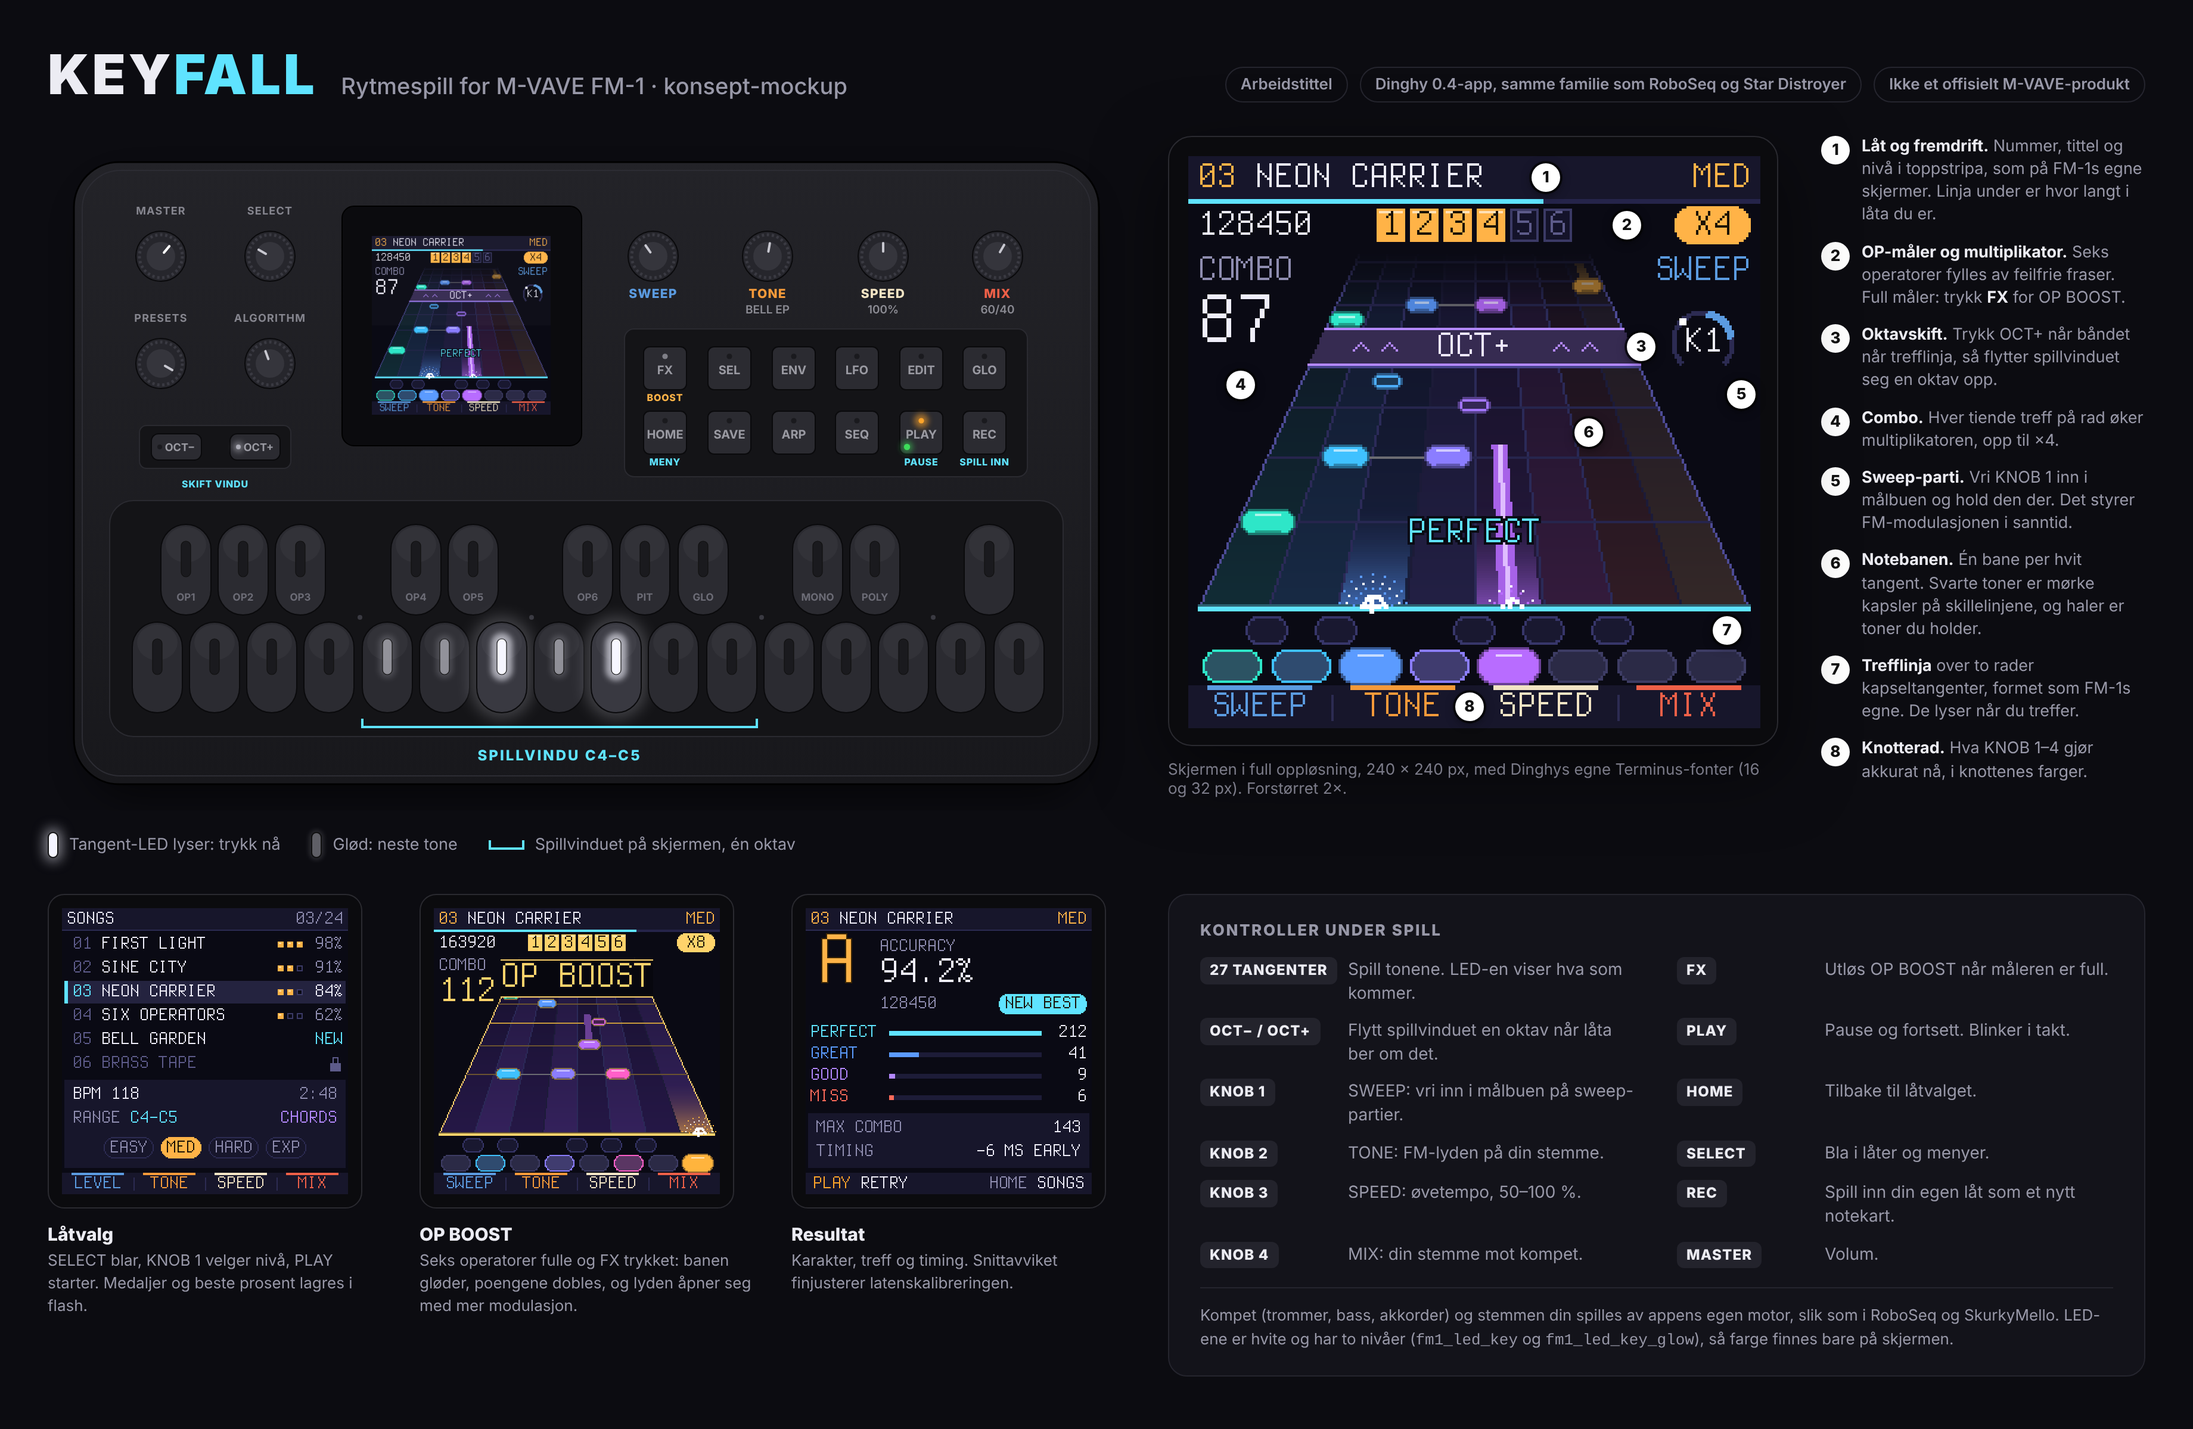
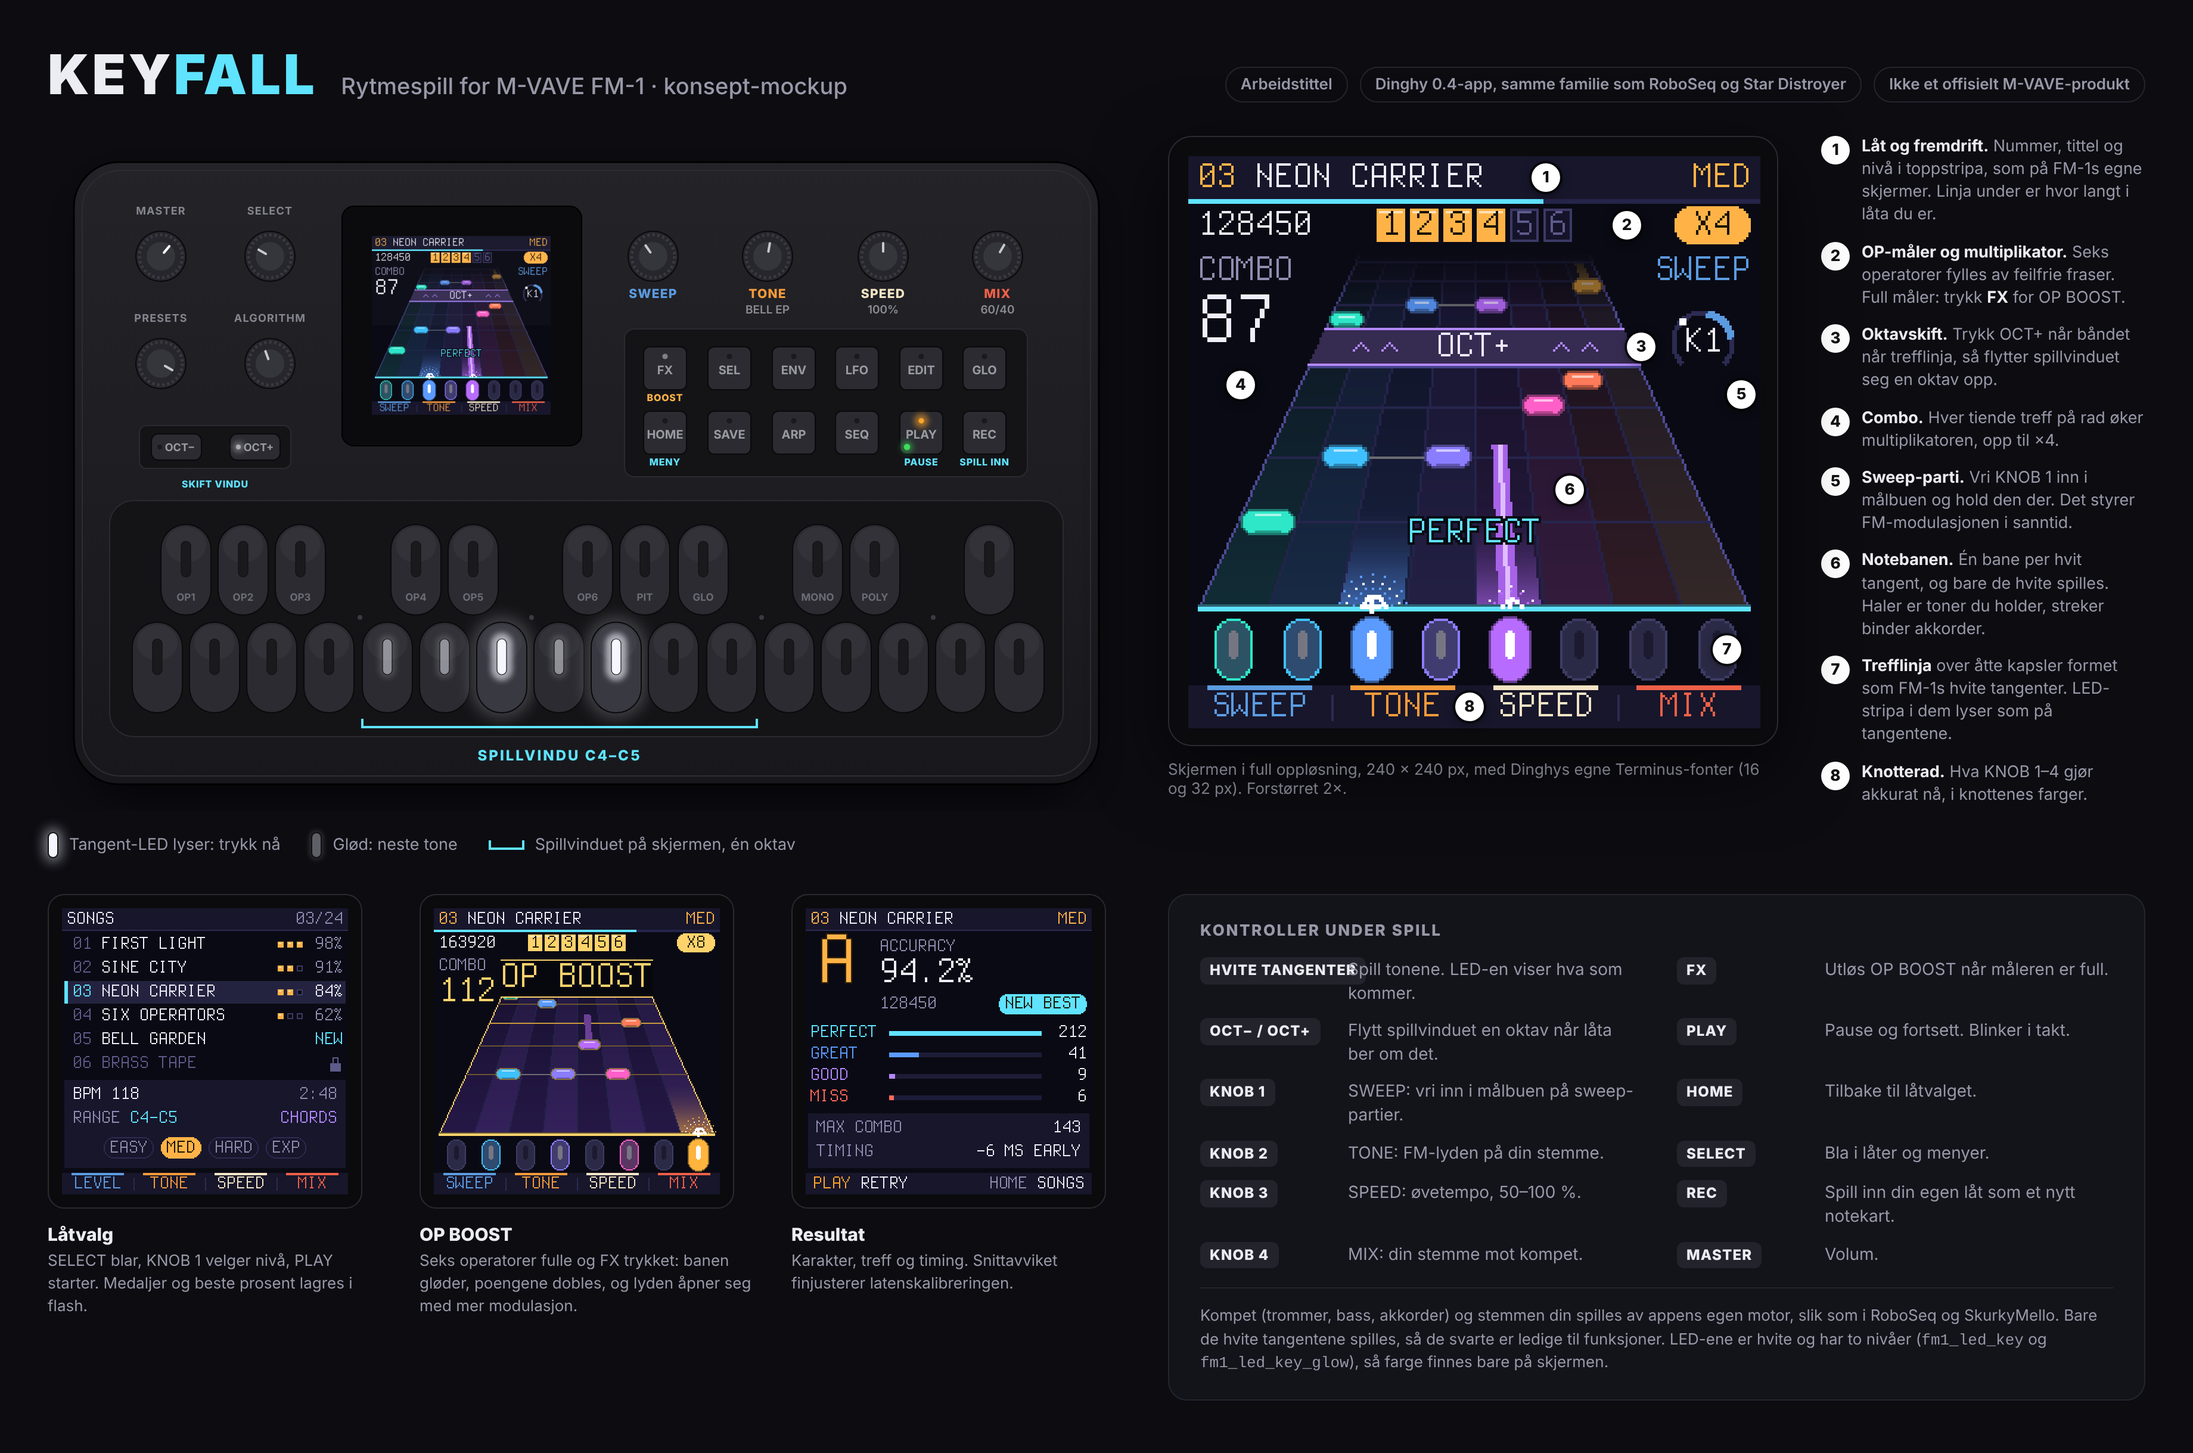
D1: play the white keys only
The highway already had a lane per white key; black notes on the lane
lines were the hardest part to read, and on the FM-1 the black keys are a
row of their own that the other apps use for functions. docs/DECISIONS.md
holds the decision and what it costs (out-of-scale notes, won back by a
transpose per song). The mockup drops the black notes and the black row:
the strip is eight standing capsules shaped like the FM-1's white keys,
with the LED slit lit and glowing as the key's LED does. pcap now rounds
standing capsules at top and bottom.

Claude-Session: https://claude.ai/code/session_01MBzS5f3wjTn3y6UgD7Y6Yo

diff --git a/mockup/keyfall-mockup.html b/mockup/keyfall-mockup.html
@@ -87,7 +87,7 @@
     <div class="controls">
       <h2>Kontroller under spill</h2>
       <div class="grid">
-        <div class="ctl"><span class="k">27 TANGENTER</span><span>Spill tonene. LED-en viser hva som kommer.</span></div>
+        <div class="ctl"><span class="k">HVITE TANGENTER</span><span>Spill tonene. LED-en viser hva som kommer.</span></div>
         <div class="ctl"><span class="k">FX</span><span>Utløs OP BOOST når måleren er full.</span></div>
         <div class="ctl"><span class="k">OCT− / OCT+</span><span>Flytt spillvinduet en oktav når låta ber om det.</span></div>
         <div class="ctl"><span class="k">PLAY</span><span>Pause og fortsett. Blinker i takt.</span></div>
@@ -100,7 +100,7 @@
         <div class="ctl"><span class="k">KNOB 4</span><span>MIX: din stemme mot kompet.</span></div>
         <div class="ctl"><span class="k">MASTER</span><span>Volum.</span></div>
       </div>
-      <div class="note">Kompet (trommer, bass, akkorder) og stemmen din spilles av appens egen motor, slik som i RoboSeq og SkurkyMello. LED-ene er hvite og har to nivåer (<code>fm1_led_key</code> og <code>fm1_led_key_glow</code>), så farge finnes bare på skjermen.</div>
+      <div class="note">Kompet (trommer, bass, akkorder) og stemmen din spilles av appens egen motor, slik som i RoboSeq og SkurkyMello. Bare de hvite tangentene spilles, så de svarte er ledige til funksjoner. LED-ene er hvite og har to nivåer (<code>fm1_led_key</code> og <code>fm1_led_key_glow</code>), så farge finnes bare på skjermen.</div>
     </div>
   </div>
 </div>
@@ -151,8 +151,8 @@ function pcap(ctx, x, y, w, h, c) {                       /* a capsule, row by r
   x = Math.round(x); y = Math.round(y); w = Math.max(1, Math.round(w)); h = Math.max(1, Math.round(h));
   const r = Math.min(h, w) / 2; ctx.fillStyle = c;
   for (let j = 0; j < h; j++) {
-    const dy = Math.abs(j + .5 - h / 2);
-    let ins = r < 2 ? 0 : Math.round(.92 * (dy >= r ? r : r - Math.sqrt(r * r - dy * dy)));
+    const yc = j + .5, dy = h <= w ? Math.abs(yc - h / 2) : yc < r ? r - yc : yc > h - r ? yc - (h - r) : 0;   /* standing capsules round at top and bottom */
+    const ins = r < 2 ? 0 : Math.round(.92 * (dy >= r ? r : r - Math.sqrt(r * r - dy * dy)));
     ctx.fillRect(x + ins, y + j, Math.max(1, w - 2 * ins), 1);
   }
 }
@@ -169,7 +169,6 @@ const HY = HIT - (HIT - TOPY) / (1 - RT);
 const sc = z => D / (D + z), Y = z => HY + (HIT - HY) * sc(z), sAt = y => (y - HY) / (HIT - HY);
 const X = (u, s) => CX + (u - CX) * s, U = p => NL + p * LW;
 const fadeAt = y => Math.max(0, Math.min(1, (y - TOPY) / 26));
-const BLACK_B = [1, 2, 4, 5, 6];
 
 function highway(ctx, o) {
   for (let y = TOPY; y < HIT; y++) {
@@ -183,7 +182,7 @@ function highway(ctx, o) {
     for (let b = 0; b <= 8; b++) {
       const edge = b === 0 || b === 8;
       let x = Math.round(X(U(b), s)); if (b === 8) x -= 1;
-      const c = edge ? (o.boost ? P.gold : '#4d4b96') : BLACK_B.includes(b) ? '#2b2a58' : '#1c1b38';
+      const c = edge ? (o.boost ? P.gold : '#4d4b96') : '#24234a';
       rect(ctx, x, y, 1, 1, mix(P.bg, c, f));
     }
   }
@@ -250,17 +249,16 @@ function burst(ctx, cx, cy, col, big) {
   if (big) { rect(ctx, cx - 3, cy - 1, 7, 2, '#ffffff'); rect(ctx, cx - 1, cy - 4, 2, 7, '#ffffff'); }
   else { rect(ctx, cx - 1, cy - 2, 2, 3, '#ffffff'); }
 }
-function keyStrip(ctx, o) {                                           /* the FM-1's two rows of capsule keys */
+function keyStrip(ctx, o) {                                           /* the FM-1's white keys: tall capsules with their LED slit */
   const st = o.keys || {};
-  const cap = (cx, y, w, h, col, state, black) => {
-    const x = cx - w / 2;
-    if (state === 'lit') { pcap(ctx, x - 1, y - 1, w + 2, h + 2, mix(P.bg, col, .55)); pcap(ctx, x, y, w, h, col);
-      rect(ctx, x + h / 2, y + 2, w - h, 1, mix(col, '#ffffff', .65)); }
-    else if (state === 'next') { pcap(ctx, x, y, w, h, col); pcap(ctx, x + 1, y + 1, w - 2, h - 2, mix(black ? '#1a1930' : '#2b2a46', col, .22)); }
-    else { pcap(ctx, x, y, w, h, black ? '#37366a' : '#3d3c64'); pcap(ctx, x + 1, y + 1, w - 2, h - 2, black ? '#191830' : '#2b2a46'); }
-  };
-  BLACK_B.forEach(b => cap(U(b), 193, 18, 12, laneCol(b), st['b' + b], true));
-  for (let i = 0; i < 8; i++) cap(U(i + .5), 207, 25, 14, LANE[i], st['w' + i], false);
+  for (let i = 0; i < 8; i++) {
+    const col = LANE[i], state = st['w' + i], w = 16, h = 26, x = Math.round(U(i + .5) - w / 2), y = 194;
+    if (state === 'lit') { pcap(ctx, x - 1, y - 1, w + 2, h + 2, mix(P.bg, col, .55)); pcap(ctx, x, y, w, h, col); }
+    else if (state === 'next') { pcap(ctx, x, y, w, h, col); pcap(ctx, x + 1, y + 1, w - 2, h - 2, mix('#2b2a46', col, .22)); }
+    else { pcap(ctx, x, y, w, h, '#3d3c64'); pcap(ctx, x + 1, y + 1, w - 2, h - 2, '#2b2a46'); }
+    const base = state === 'lit' ? mix(col, '#000000', .35) : '#1b1a30';
+    pcap(ctx, x + 6, y + 5, 4, 12, state === 'lit' ? '#ffffff' : state === 'next' ? mix(base, '#ffffff', .4) : base);
+  }
 }
 function header(ctx, num, title, diff, prog) {
   rect(ctx, 0, 0, 240, 18, P.surf);
@@ -332,8 +330,8 @@ const MAIN = {
     { p: 2.5, z: 0, hit: true }, { p: 4.5, z: 0, len: 1.1, held: true },        /* E4 just hit, G4 held */
     { p: .5, z: .5 },                                                            /* C4 */
     { p: 1.5, z: 1, chord: 1 }, { p: 3.5, z: 1, chord: 1 },                      /* D4 + F4 */
-    { p: 4, z: 1.5 },                                                            /* F#4 */
-    { p: 2, z: 1.8 },                                                            /* D#4 */
+    { p: 5.5, z: 1.5 },                                                          /* A4 */
+    { p: 6.5, z: 1.8 },                                                          /* B4 */
     { p: .5, z: 2.7 },                                                           /* after OCT+ */
     { p: 2.5, z: 3, chord: 2 }, { p: 4.5, z: 3, chord: 2 },
     { p: 7.5, z: 3.4, len: .5 },
@@ -344,7 +342,7 @@ const BOOST = {
   notes: [
     { p: 7.5, z: 0, hit: true },
     { p: 1.5, z: .75, chord: 1 }, { p: 3.5, z: .75, chord: 1 }, { p: 5.5, z: .75, chord: 1 },
-    { p: 4.5, z: 1.25, len: .7 }, { p: 5, z: 1.75 }, { p: 2.5, z: 2.25 }, { p: .5, z: 2.5 },
+    { p: 4.5, z: 1.25, len: .7 }, { p: 6.5, z: 1.75 }, { p: 2.5, z: 2.25 }, { p: .5, z: 2.5 },
     { p: 2.5, z: 2.75 }, { p: 4.5, z: 3 }, { p: 7.5, z: 3.25, len: .5 },
   ] };
 
@@ -506,8 +504,8 @@ const LEGEND = [
   [190, 80,  '<b>Oktavskift.</b> Trykk OCT+ når båndet når trefflinja, så flytter spillvinduet seg en oktav opp.'],
   [22, 96,   '<b>Combo.</b> Hver tiende treff på rad øker multiplikatoren, opp til ×4.'],
   [232, 100, '<b>Sweep-parti.</b> Vri KNOB 1 inn i målbuen og hold den der. Det styrer FM-modulasjonen i sanntid.'],
-  [168, 116, '<b>Notebanen.</b> Én bane per hvit tangent. Svarte toner er mørke kapsler på skillelinjene, og haler er toner du holder.'],
-  [226, 199, '<b>Trefflinja</b> over to rader kapseltangenter, formet som FM-1s egne. De lyser når du treffer.'],
+  [160, 140, '<b>Notebanen.</b> Én bane per hvit tangent, og bare de hvite spilles. Haler er toner du holder, streker binder akkorder.'],
+  [226, 207, '<b>Trefflinja</b> over åtte kapsler formet som FM-1s hvite tangenter. LED-stripa i dem lyser som på tangentene.'],
   [118, 231, '<b>Knotterad.</b> Hva KNOB 1–4 gjør akkurat nå, i knottenes farger.'],
 ];
 

diff --git a/docs/konsept.md b/docs/konsept.md
@@ -51,12 +51,16 @@ I M-VAVEs egen firmware er de seks første svarte tangentene **OP1–OP6**. Det 
 
 ### Notebanen
 
-- **Ett spillvindu er én oktav:** åtte baner, én per hvit tangent (C–C). Svarte toner faller som mørke kapsler
-  på skillelinjene mellom banene, akkurat der den svarte tangenten sitter.
-- Nederst på skjermen er det en tangentstripe med to rader kapsler, formet som FM-1s egne tangenter, så øyet
-  finner tangenten raskt.
-- **Oktavskift:** et lilla OCT+- eller OCT−-bånd kommer ned banen. Trykk knappen i takt, så glir vinduet. Slik
-  dekker en låt hele det 27 tangenter brede klaviaturet uten at banene blir for smale.
+- **Bare de hvite tangentene spilles** ([beslutning D1](DECISIONS.md)). Ett spillvindu er én oktav: åtte baner,
+  én per hvit tangent fra C til C. De svarte tangentene sitter i en egen rad på FM-1. Der er de ikke med i spillet:
+  de gir ingen poeng og ingen straff, og de er ledige til funksjoner senere.
+- **Hvite tangenter betyr ikke bare C-dur.** Spillet kan transponere lyden, så de hvite tangentene følger låtas
+  toneart. En låt i Es-dur spilles med C-dur-grep og høres i Es. Modusene får man ved å velge grunntone: A-moll,
+  D-dorisk, E-frygisk og så videre.
+- Nederst på skjermen står åtte kapsler, formet som FM-1s hvite tangenter, med LED-stripa inni. Den lyser og gløder
+  som LED-en på tangenten, så øyet finner tangenten raskt.
+- **Oktavskift:** et lilla OCT+- eller OCT−-bånd kommer ned banen. Trykk knappen i takt, så flytter vinduet seg en
+  oktav. Slik får en låt større toneomfang uten at banene blir for smale.
 - **Haler** er toner du holder. **Akkorder** er toner på samme linje, bundet sammen med en tynn strek.
 
 ### Nivåer: flere tangenter, ikke bare flere toner
@@ -64,9 +68,9 @@ I M-VAVEs egen firmware er de seks første svarte tangentene **OP1–OP6**. Det 
 | Nivå | Tangenter | Innhold |
 |---|---|---|
 | EASY | 5 hvite (C–G, én håndstilling) | Enkeltoner, ingen skift |
-| MED | Hele oktaven C–C, noen svarte | Toakkorder, haler, et og annet OCT-skift |
-| HARD | Alle 12 toner i vinduet | Treklanger, raske skift, sweep-partier |
-| EXP | Alle 27 tangenter, flat bane (15 px per hvit tangent, som minikeyboardet i RoboSeq) | Alt |
+| MED | Hele oktaven C–C, 8 hvite | Toakkorder, haler, et og annet OCT-skift |
+| HARD | Hele oktaven, 8 hvite | Raske løp, treklanger, hyppige skift, sweep-partier |
+| EXP | Alle 16 hvite tangenter, F3–G5, på en flat bane (14,5 px per bane) | Alt |
 
 Nivåene kan genereres fra én MIDI-fil: tonene flyttes inn i vinduet, akkorder tynnes ut, og rytmen kvantiseres.
 

diff --git a/docs/DECISIONS.md b/docs/DECISIONS.md
@@ -1,0 +1,25 @@
+# Beslutninger
+
+En beslutning står her med dato og grunn, slik at koden og referansen kan sjekkes mot den. Den overstyrer konseptet
+der de er uenige.
+
+## D1 (2026-11-07): bare de hvite tangentene spilles
+
+**Beslutning.** Notekartene har bare toner på hvite tangenter. Banene på skjermen er én per hvit tangent, og
+tangentstripa viser bare de hvite. Under en låt er de svarte tangentene utenfor spillet: ingen tone, ingen poeng,
+ingen straff og ingen lyd.
+
+**Hvorfor.**
+
+- Skjermen er bygget for det. Åtte baner, én per hvit tangent, er lette å lese på 240 piksler. Svarte toner på
+  skillelinjene var den mest uryddige delen av banen.
+- På FM-1 sitter de svarte tangentene i en egen øvre rad, ikke mellom de hvite som på et piano. Å treffe dem i fart
+  er noe annet enn å spille piano.
+- De andre FM-1-appene bruker de svarte tangentene til funksjoner (styring i RoboSeq, RNDMZR og UNDO i SkurkyMello,
+  OP1–OP6 i M-VAVEs egen firmware). Slik blir de ledige til det i Keyfall også.
+
+**Hva det koster.** Toner utenfor skalaen forsvinner. Det tas igjen med transponering per låt, slik at de hvite
+tangentene følger låtas toneart og modus. Tre toner i NEON CARRIER ble skrevet om: D#4 ble D4, G#4 ble A4 og F#5 ble D5.
+
+**Sjekkes av.** `buildChart` stopper med en feil hvis et notekart har en svart tangent. `tests/reference.cjs` sjekker
+at ingen notekart har svarte tangenter, og at en svart tangent midt i en låt ikke endrer combo eller dom.

diff --git a/ROADMAP.md b/ROADMAP.md
@@ -17,7 +17,8 @@ på verten og i fm1-emu.
 - [x] `reference/keyfall.html`: én fil, spillbar med datamaskintastaturet, panelet (mus og berøring) og WebMIDI
 - [x] Skjermen tegnet piksel for piksel i 240 × 240 med `FONT_S` og `FONT_L`
 - [x] To låter (FIRST LIGHT, NEON CARRIER) med EASY og MED. Nivåene lages av samme notekart.
-- [x] Notebane i perspektiv, svarte toner, akkorder, hold-toner og oktavskift (OCT+/OCT−)
+- [x] Notebane i perspektiv med én bane per hvit tangent, akkorder, hold-toner og oktavskift (OCT+/OCT−)
+- [x] D1: bare de hvite tangentene spilles (REF 0.1.1, [docs/DECISIONS.md](docs/DECISIONS.md))
 - [x] Poeng: PERFECT ±35 ms, GREAT ±70 ms, GOOD ±110 ms, combo og multiplikator, WRONG for feil tangent
 - [x] OP-fraser og OP BOOST med FX
 - [x] Tangent-LED-er (lyser og glød) og knappe-LED-er, slik FM-1 ville vist dem
@@ -31,6 +32,8 @@ på verten og i fm1-emu.
 
 - [ ] Spilltest med ekte hender: banebredde, notefart og tidsvinduer
 - [ ] Sweep-partier med KNOB 1
+- [ ] Bestemme hva de svarte tangentene skal gjøre: ingenting, eller funksjoner som i RoboSeq (for eksempel FX)
+- [ ] Transponering per låt, så de hvite tangentene følger låtas toneart
 - [ ] Øvemodus: loop av et parti, «vent på riktig tangent», og en hjelpemelodi
 - [ ] Egen kalibreringsskjerm: trykk i takt med klikk
 - [ ] HARD-nivå og 2–3 nye låter

diff --git a/README.md b/README.md
@@ -1,7 +1,7 @@
 # KEYFALL for M-VAVE FM-1
 
 *Arbeidstittel.* Et rytmespill i Guitar Hero-sjangeren for FM-1. Tonene glir ned en notebane, du spiller dem på de
-27 tangentene, og LED-ene i tangentene viser hva som kommer. To spillere med hvert sitt FM-1 kan spille mot
+hvite tangentene, og LED-ene i tangentene viser hva som kommer. To spillere med hvert sitt FM-1 kan spille mot
 hverandre. Tenkt som en Dinghy 0.4-app, i samme familie som [RoboSeq](https://github.com/joakimskurk/fm1roboseq),
 [Star Distroyer](https://github.com/joakimskurk/fm1stardistroyer) og [SkurkyMello](https://github.com/joakimskurk/fm1mello).
 
@@ -11,8 +11,8 @@ hverandre. Tenkt som en Dinghy 0.4-app, i samme familie som [RoboSeq](https://gi
 
 ## Prøv det
 
-Åpne [`reference/keyfall.html`](reference/keyfall.html) i en nettleser og trykk Enter. Tangentene C4–C5 ligger på
-`A W S E D F T G Y H U J K`, OCT− og OCT+ på `Z` og `X`, og FX (OP BOOST) på mellomromstasten. Du kan også bruke et
+Åpne [`reference/keyfall.html`](reference/keyfall.html) i en nettleser og trykk Enter. De hvite tangentene C4–C5 ligger
+på `A S D F G H J K`, OCT− og OCT+ på `Z` og `X`, og FX (OP BOOST) på mellomromstasten. Du kan også bruke et
 MIDI-keyboard (Chrome og Edge), eller klikke og ta på panelet. Mer i [reference/README.md](reference/README.md).
 
 ## To spillere, to FM-1-er
